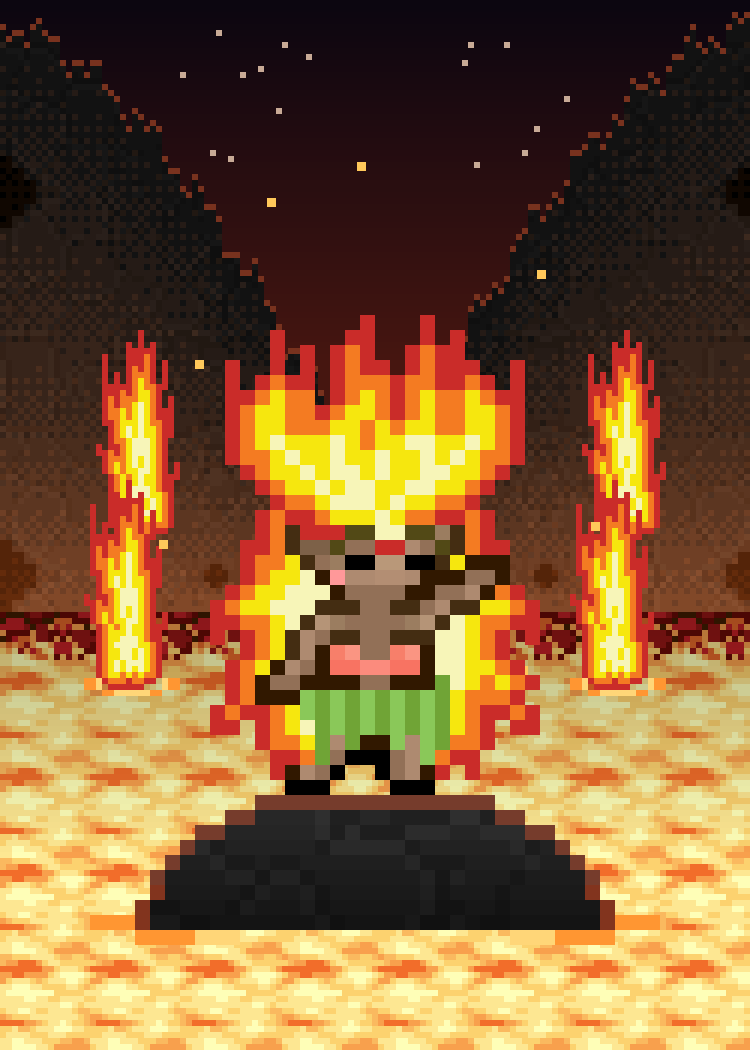
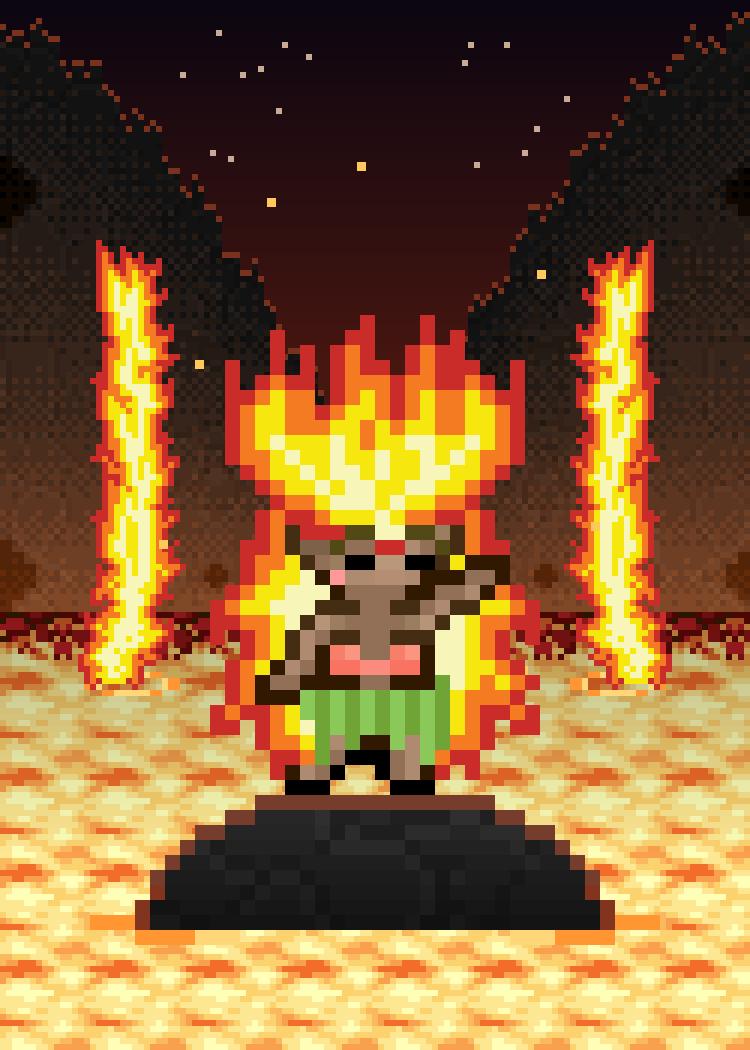
Runde 6: Überarbeitung nach Nutzer-Feedback (Zwischenstand)
Claude-Session: https://claude.ai/code/session_01TEnvTzH2xD44R6Unjv7vDo

Changed region(s): [[0.736, 0.2133, 0.92, 0.6705], [0.092, 0.2133, 0.2453, 0.6705]]

diff --git a/data/sleeve-proposals/runde6/generator/s37_sandtrap_oasis.py b/data/sleeve-proposals/runde6/generator/s37_sandtrap_oasis.py
@@ -12,7 +12,7 @@ Quellen (MotiveEgypt.xcf):
   „Ebene #78“ (Wüste) pixelgleich mit „Sichtbar #52“ (Ebene 1) im Ausschnitt x350–460/y355–460 (0 Pixel Abweichung);
   das ist die Szene der Karte „Bakhm, the Desert Digger“ (Kartenbild gefiltert, gleiche Pose, gleicher Kaktus).
   Aus Ebene 132 zusätzlich nur der Tonnenkaktus hinter dem Schädel (x364–380/y377–395), in Originallage zu Bakhm.
-  Ebene 234 „Hintergrund“ – Nilufer mit Bucht, Wüste, Kakteen, Schädel (Ausschnitt x334–418/y296–413); Objekte,
+  Ebene 234 „Hintergrund“ – Nilufer mit Bucht, Wüste, Kakteen, Schädel (Ausschnitt x334–418/y306–423); Objekte,
   die unter Bakhm/Trichter/Kamel lägen, sind mit der 16-px-periodischen Sandtextur überdeckt.
   Ebenen 67 „Ebene #103“ + 65 „Ebene #128“ – das Kamel der Karte „Pure Advantage Camel“ (Sichtbar Ebene 62, blickt
   wie dort nach links, hier zum Wasser); die schwarze Gestalt 66 der Karte weggelassen.
@@ -26,7 +26,7 @@ from gkit36_40 import *  # noqa
 
 rnd = random.Random(37)
 W2, H2 = 84, 117                   # EIN Raster 3× (Bakhm samt Sandtrichter größer)
-SX0, SY0 = 334, 296                # Ausschnitt aus Ebene 234
+SX0, SY0 = 334, 306                # Ausschnitt aus Ebene 234
 
 # ------------------------------------------------------------------ Hintergrund: Nilufer + Wüste
 L234 = layer('MotiveEgypt', 234)
@@ -61,7 +61,7 @@ def erase(x0, y0, x1, y1):
 
 
 BX, BY = 16 - 363, 12 - 377        # Versatz Original → Raster (Trichter links bei x 16, Bakhm oben bei y 12)
-CX, CY = 16, 87                    # Kamel links oben; Maul am Wasser
+CX, CY = 8, 84                    # Kamel links oben; Maul am Wasser
 PROTECT = [(16, 12, 16 + 92, 12 + 71), (CX - 2, CY - 2, CX + 32, CY + 27)]
 import cv2
 om = np.array([[is_obj(c) for c in row] for row in bg.a[..., :3]]).astype(np.uint8)
@@ -76,7 +76,7 @@ for k in range(1, n_):
 # ------------------------------------------------------------------ Kamelspur (selbst gezeichnet)
 # Paarweise Hufabdrücke (je 2×2 dunkle Delle mit hellem Rand darunter), von rechts am Trichterrand vorbei zum Kamel
 DENT, RIM = (122, 92, 52), (236, 214, 152)
-pts = [(86, 92), (74, 96), (62, 100), (52, 104), (47, 106)]
+pts = [(86, 88), (72, 93), (58, 98), (47, 102), (41, 104)]
 steps = []
 for (x0, y0), (x1, y1) in zip(pts, pts[1:]):
     n = int(math.hypot(x1 - x0, y1 - y0) / 3.4)
